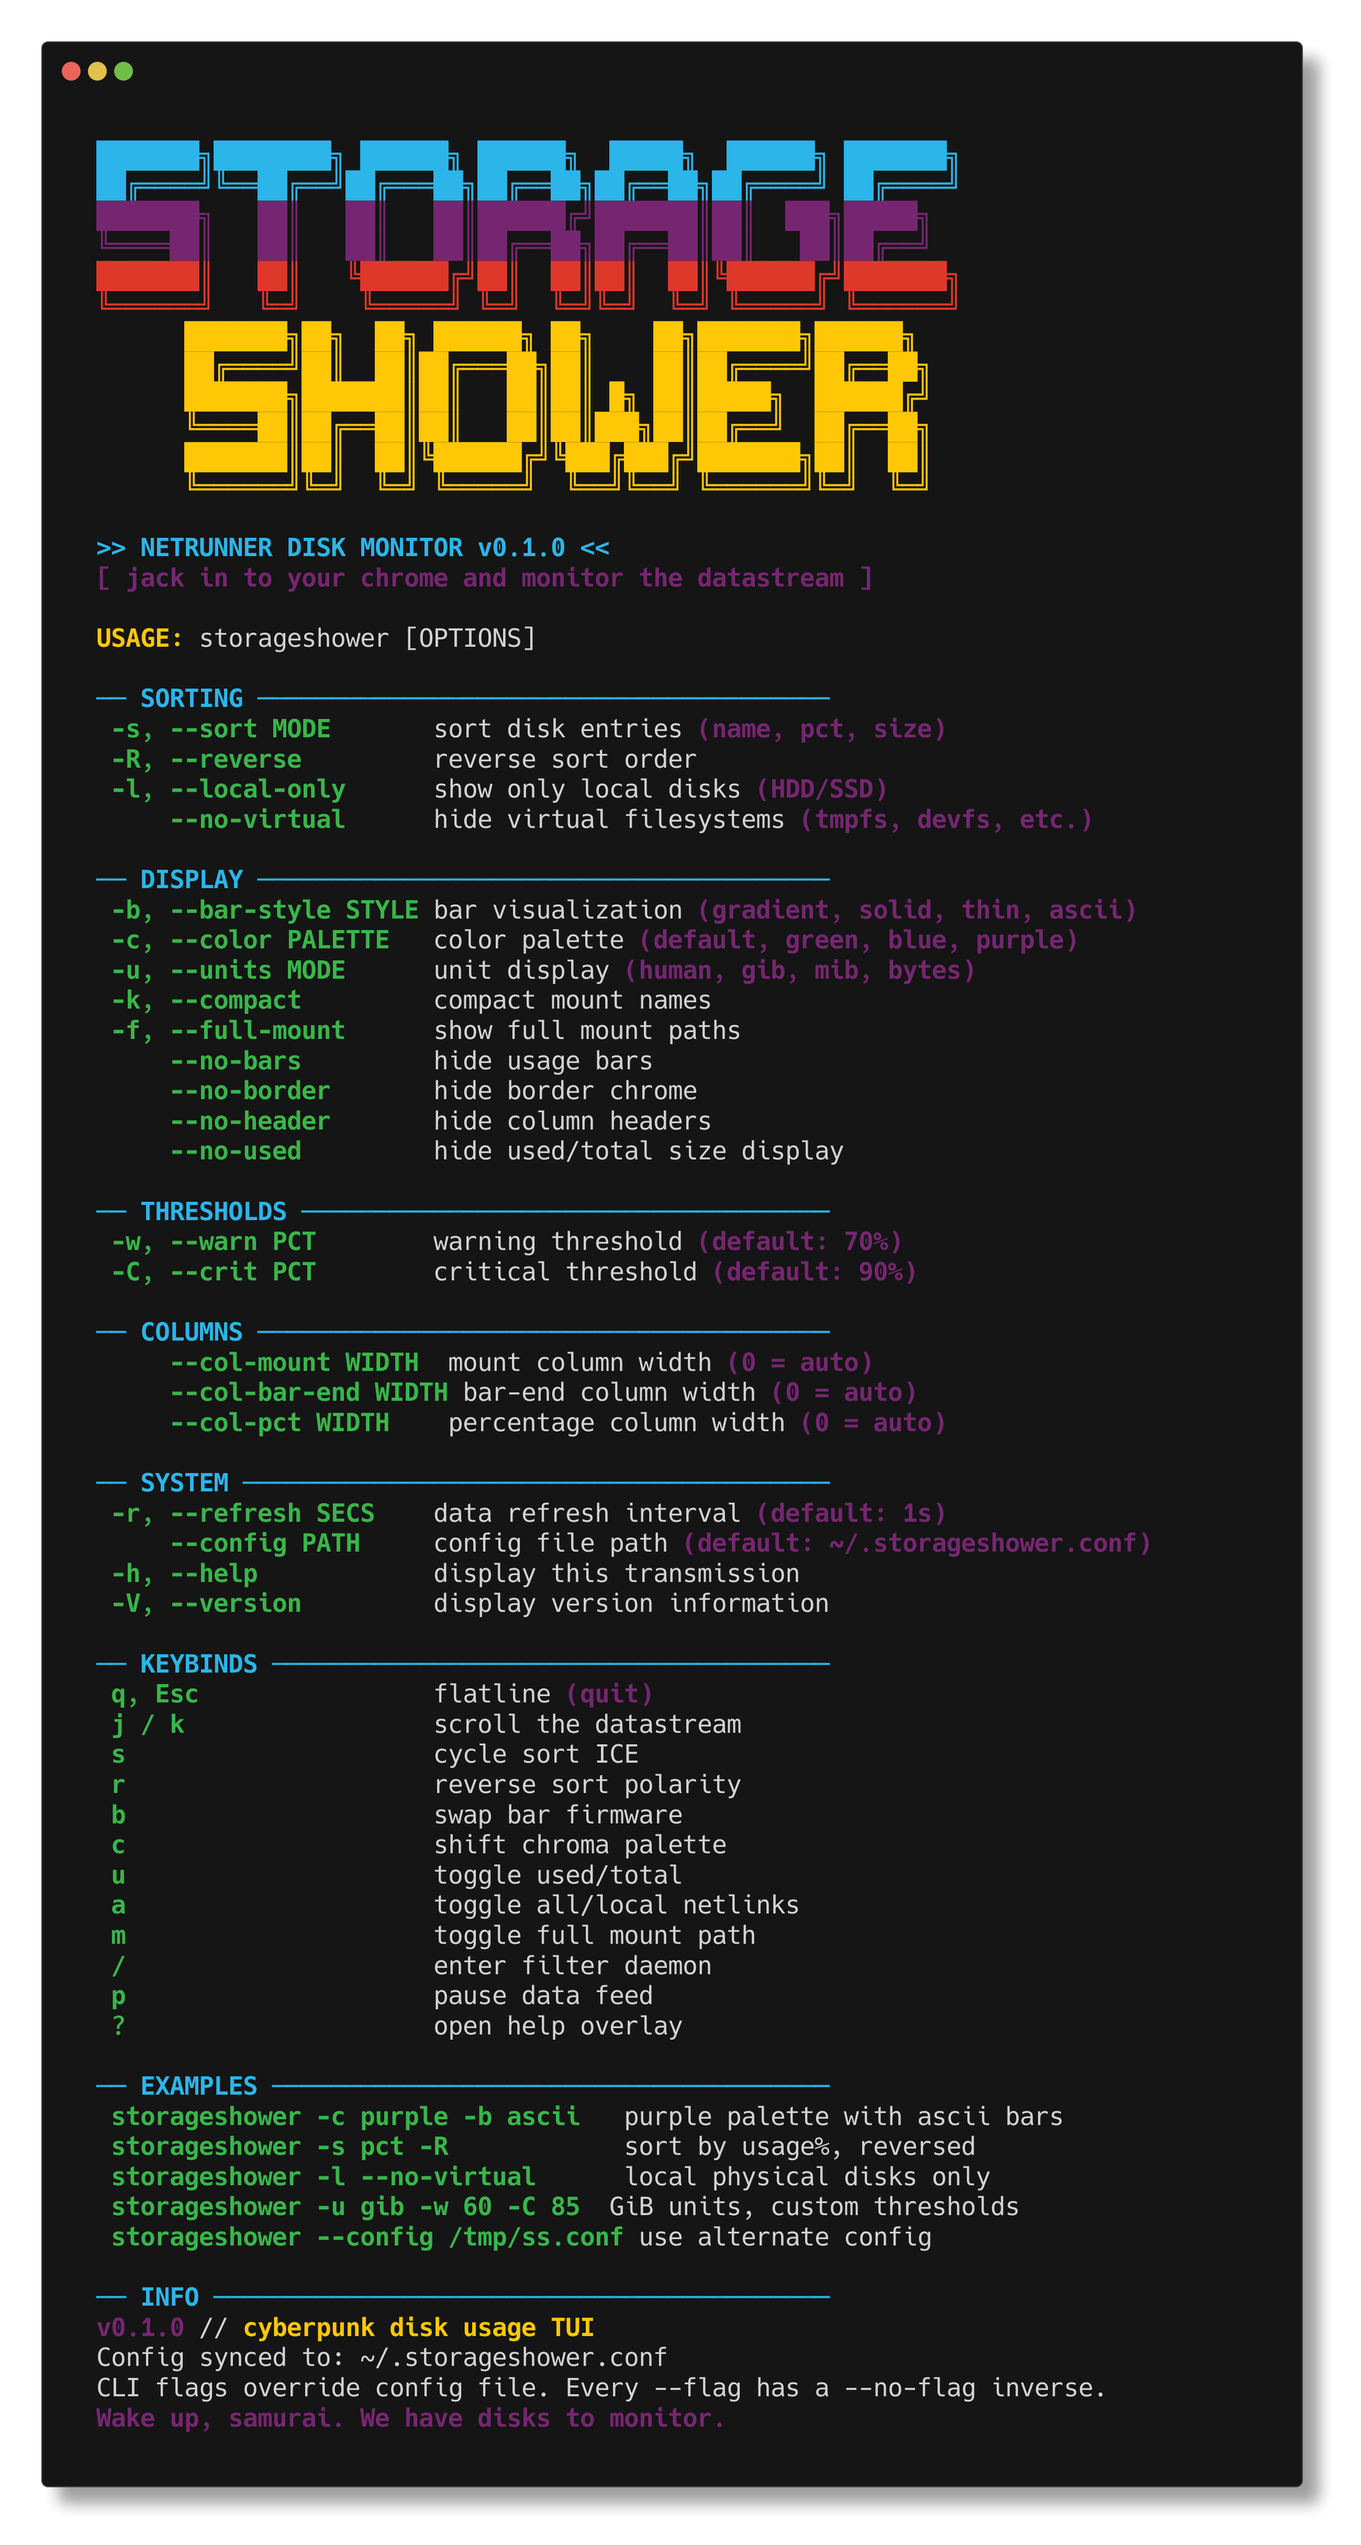
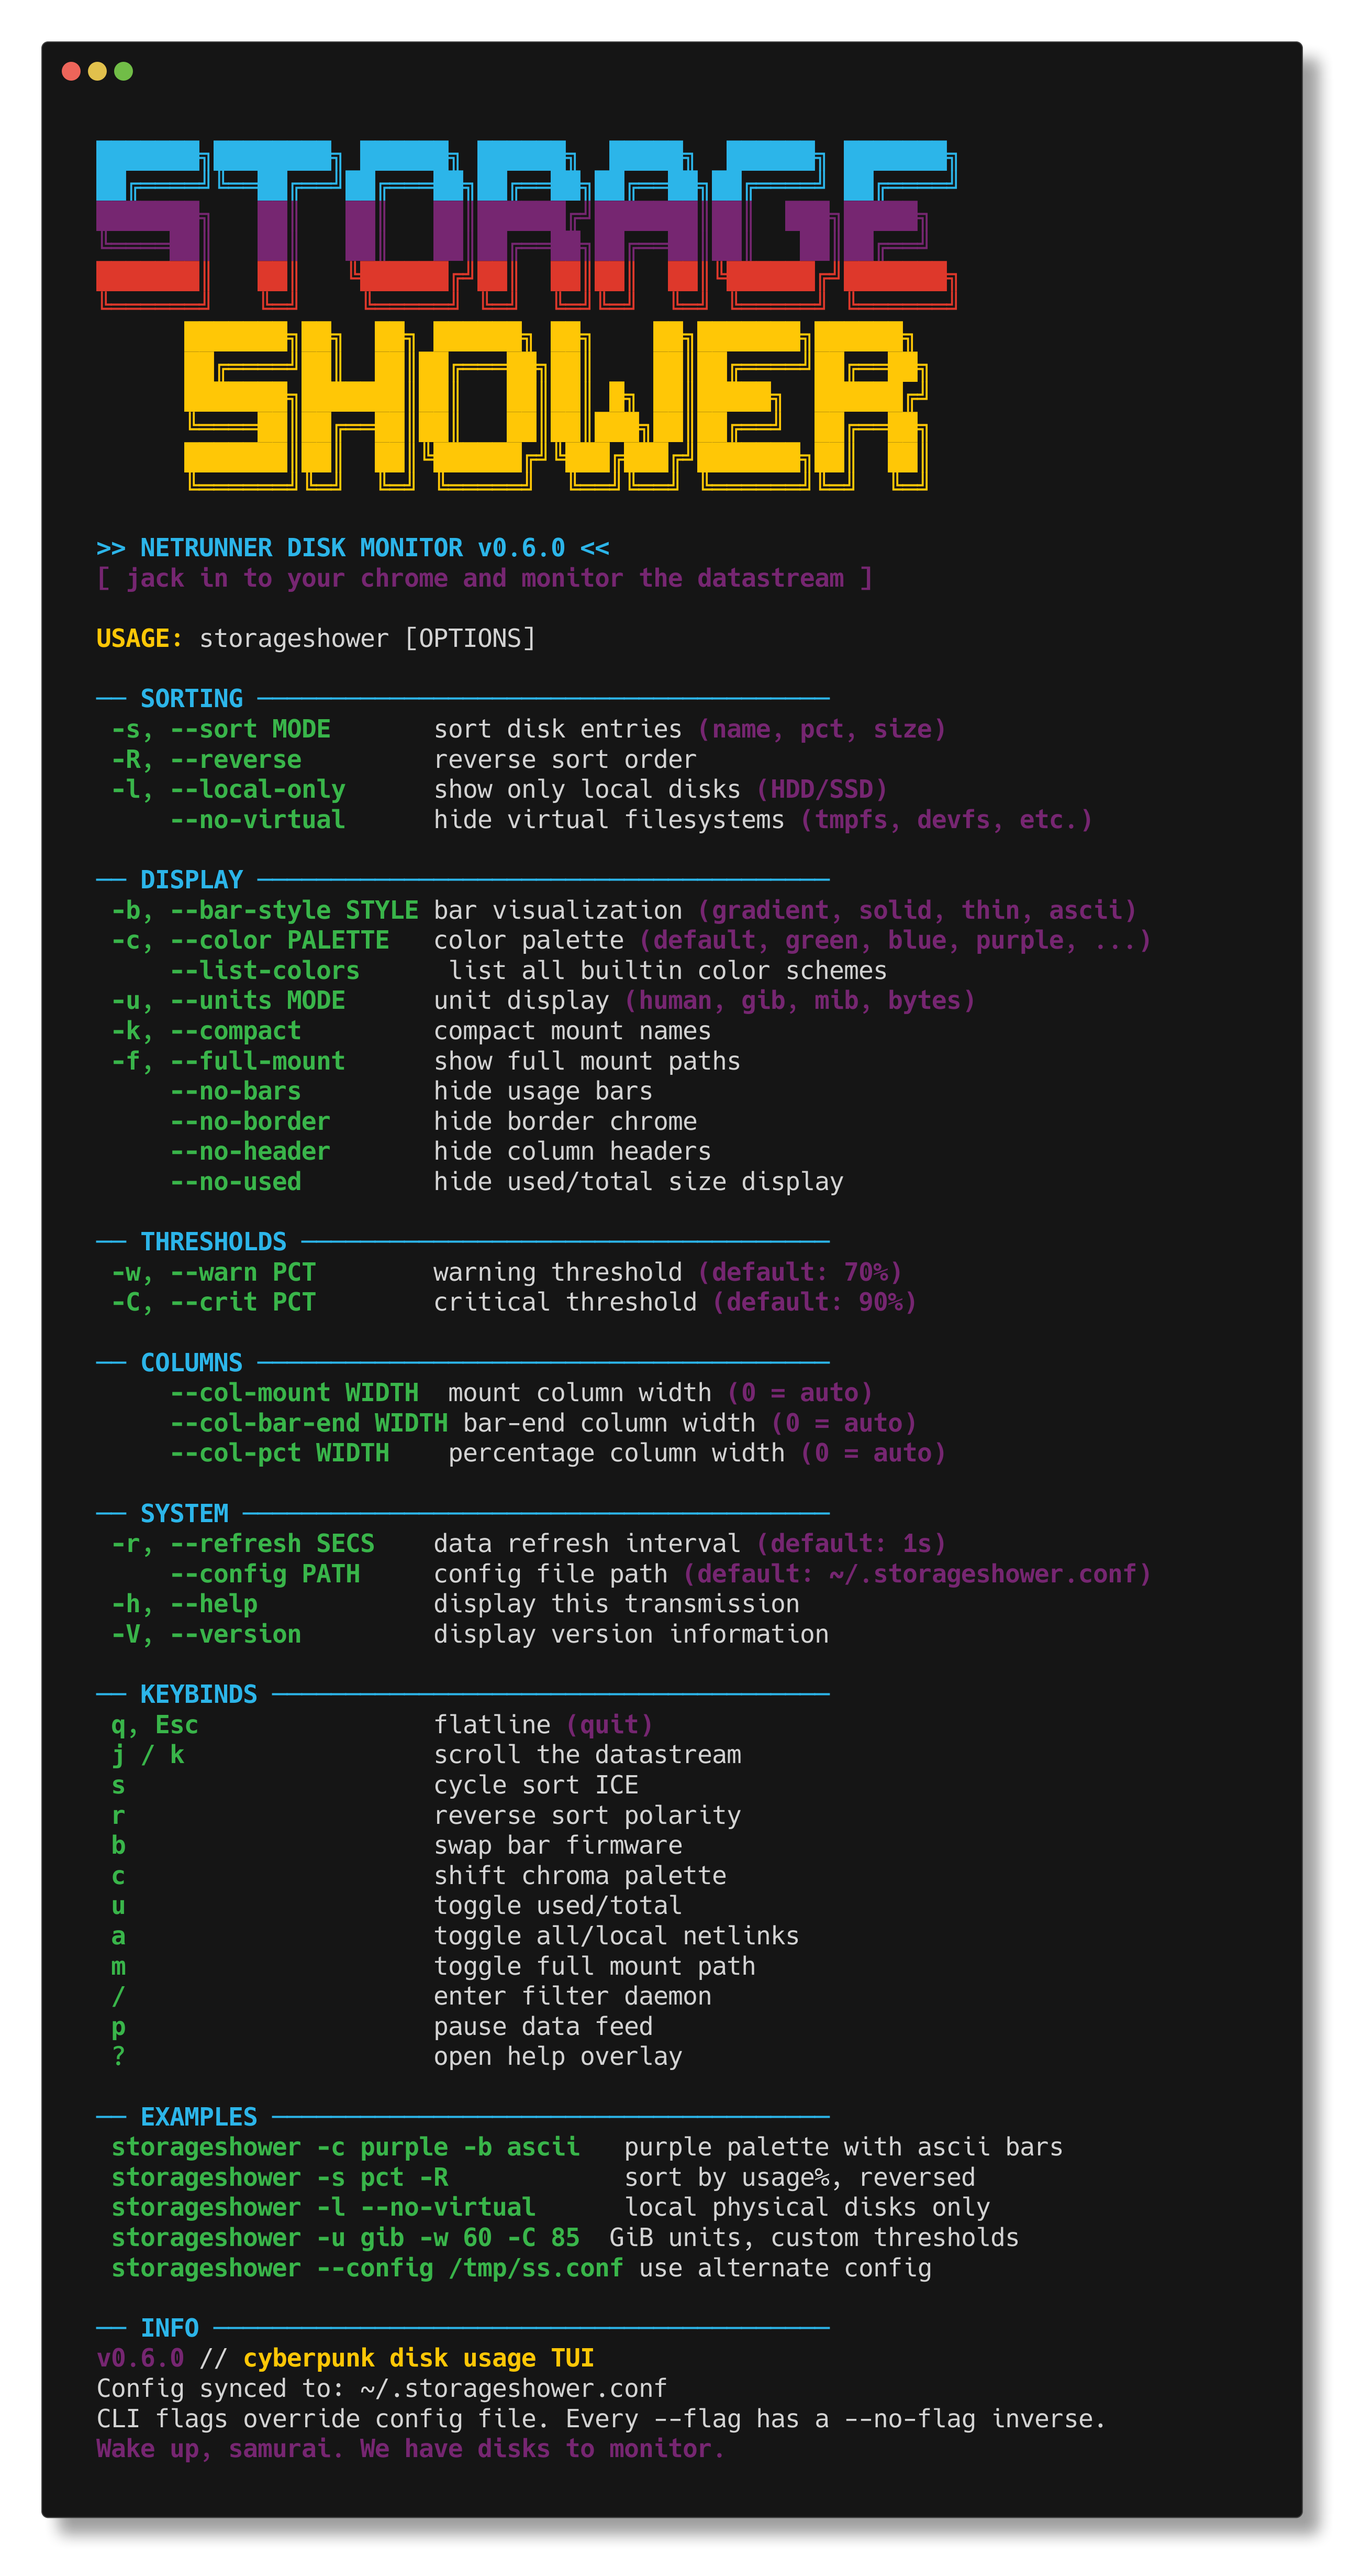
bump version to 0.6.0: update zsh completion, screenshots, readme
- Update zsh completion with --theme, --list-colors flags, all 10 color palettes
- Retake CLI help screenshot with v0.6.0 version
- Add --list-colors screenshot showing all builtin schemes
- Update README version header

diff --git a/README.md b/README.md
@@ -20,7 +20,7 @@
 </p>
 
 <p align="center">
-  <code>[ SYSTEM://DISK_MATRIX v5.0 ]</code><br>
+  <code>[ SYSTEM://DISK_MATRIX v6.0 ]</code><br>
   <code>⟦ JACKING INTO YOUR FILESYSTEM ⟧</code><br><br>
   <strong>A neon-drenched terminal UI for monitoring disk usage</strong><br>
   <em>Built in Rust with <a href="https://github.com/ratatui/ratatui">ratatui</a> + <a href="https://github.com/crossterm-rs/crossterm">crossterm</a></em><br><br>
